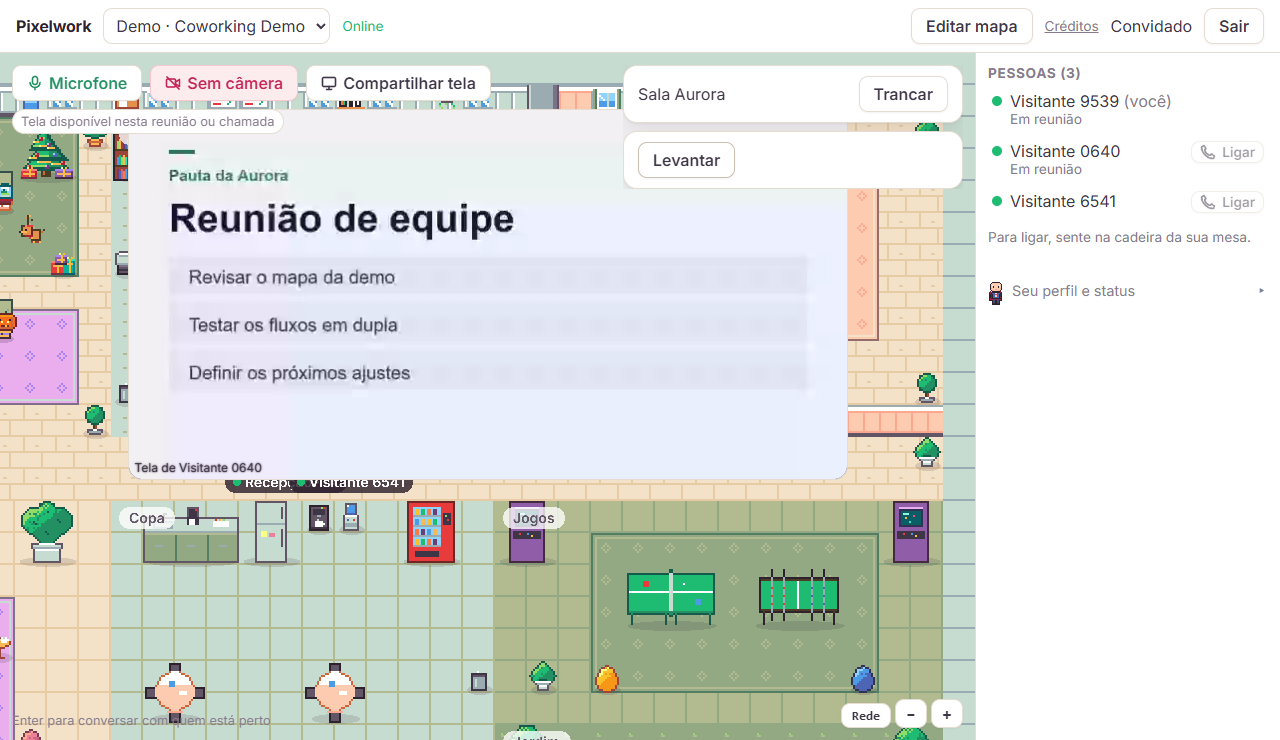
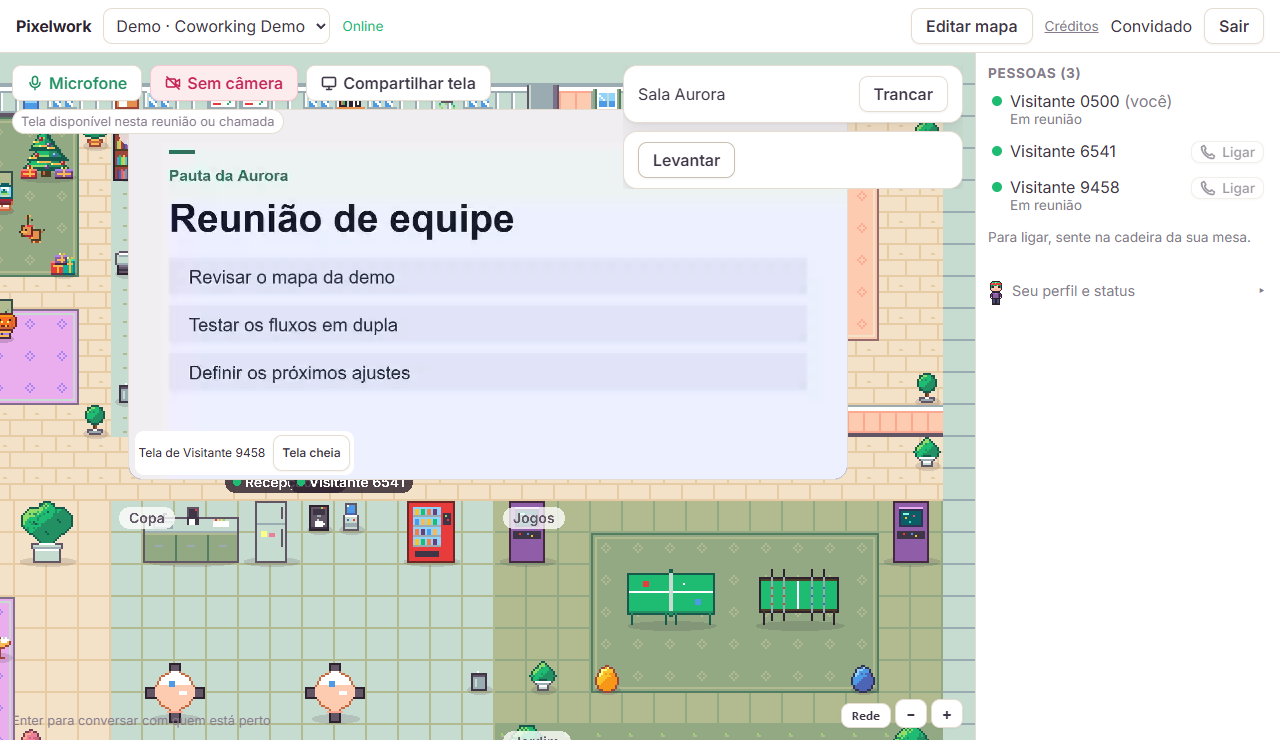
Mostra o botão Tela cheia no print da Sala Aurora

diff --git a/README.md b/README.md
@@ -38,7 +38,7 @@ Coworking virtual em pixel art 2D com voz e vídeo por proximidade, mapas person
 
 ### Compartilhamento de tela na Sala Aurora
 
-![Visão de quem recebe na Sala Aurora, com o slide Reunião de equipe sobre o mapa e o nome de quem apresenta no rodapé do vídeo](docs/prints/compartilhamento-aurora.png)
+![Apresentação recebida na Sala Aurora, com o slide Reunião de equipe sobre o mapa e o botão Tela cheia ao lado do nome de quem apresenta](docs/prints/compartilhamento-aurora.png)
 
 [Como compartilhar a tela](#compartilhar-a-tela)
 
